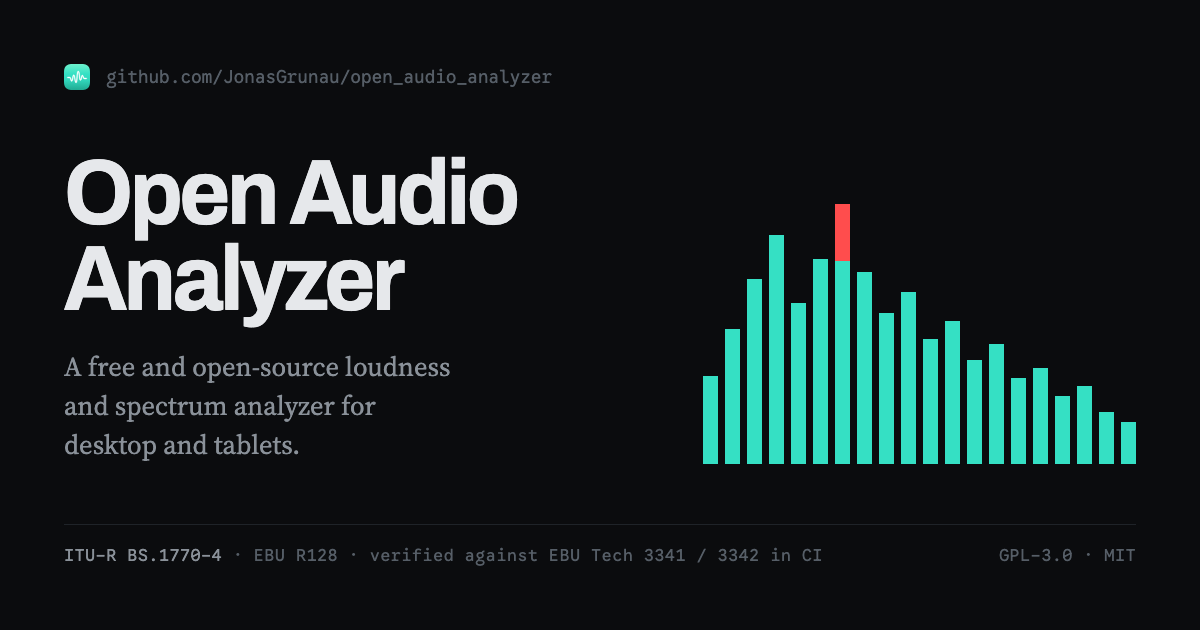
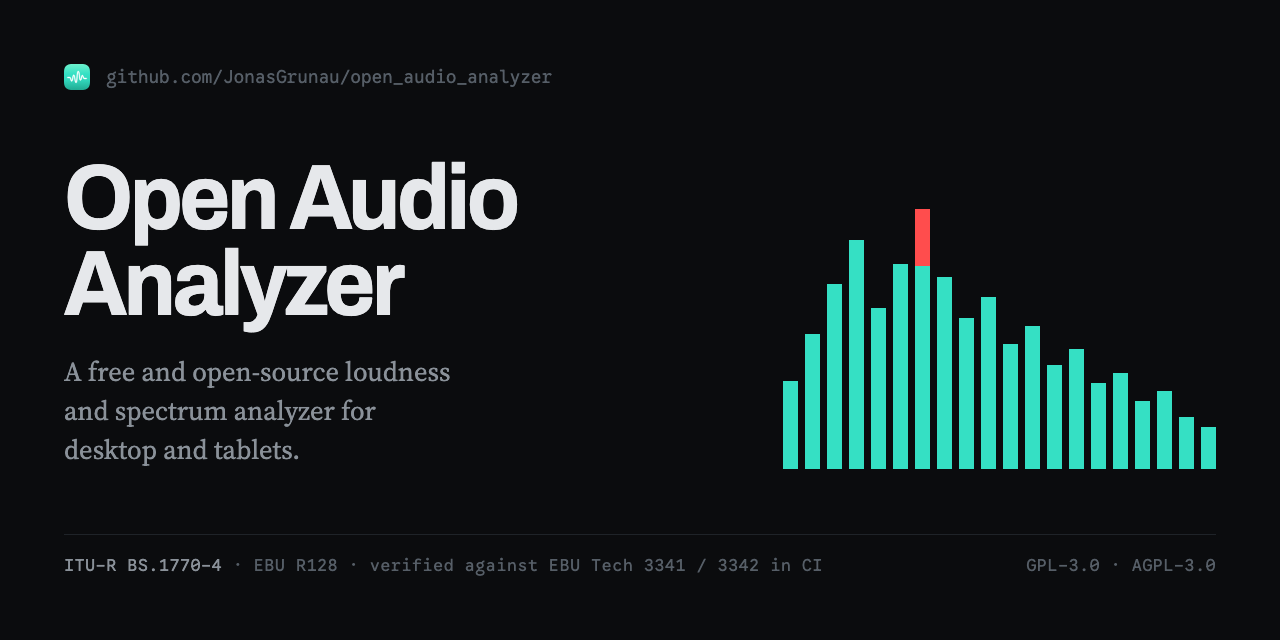
The link preview card catches up with the changelog that describes it
`CHANGELOG.md` already carries both of these under [Unreleased] — the card no
longer claiming the project is part MIT, and the render moving to 1280×640 — but
the four files that make them true were never committed, so main has been
describing a fix it does not contain.

The card reads GPL-3.0 · AGPL-3.0, which is what the footer says and what 0.14.0
made true. `scripts/og.html`, the `og` script's window size and the
`og:image:width` / `og:image:height` tags all move to 1280×640 together, and
`public/og.png` is the regenerated image at that size — GitHub asks a
repository's social preview for those dimensions, so one image now serves the
unfurl and the repository page without being cropped.

Committed from a working tree shared with another session, which authored this
and left it unstaged. Nothing here is changed from what was found; the website
build passes.

diff --git a/website/scripts/og.html b/website/scripts/og.html
@@ -16,7 +16,7 @@
     />
     <style>
       * { box-sizing: border-box; margin: 0; }
-      html, body { width: 1200px; height: 630px; }
+      html, body { width: 1280px; height: 640px; }
       body {
         background: #0b0c0e;
         color: #e6e8eb;
@@ -87,7 +87,7 @@
 
     <div class="foot">
       <span><b>ITU-R BS.1770-4</b> · EBU R128 · verified against EBU Tech 3341 / 3342 in CI</span>
-      <span>GPL-3.0 · MIT</span>
+      <span>GPL-3.0 · AGPL-3.0</span>
     </div>
 
     <script>
